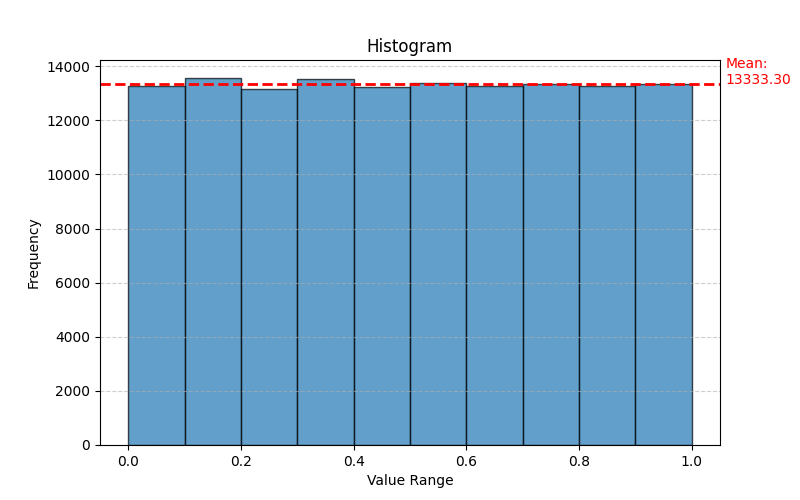
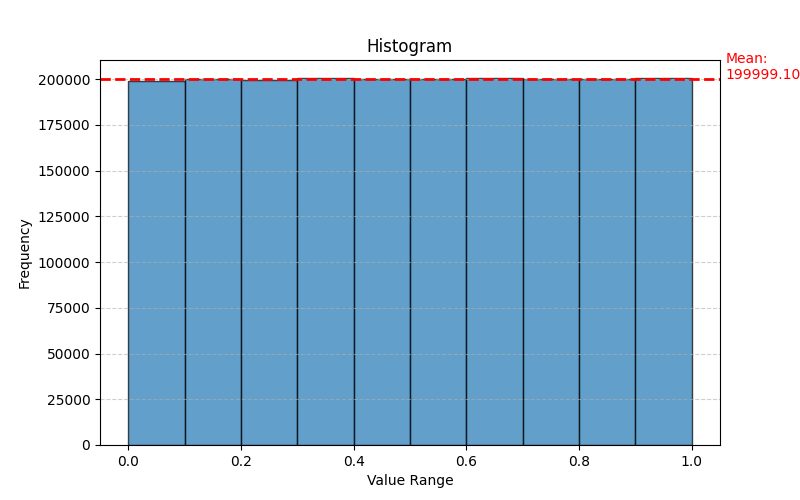
Adding period to the generator + correcting bug where 0 was consider as None

diff --git a/src/generator.py b/src/generator.py
@@ -10,22 +10,28 @@ class EGenerator:
         num_decimals (int): The number of decimal wanted to be used. Defaults = 10 MAX = 15.
     """
     
-    __MAX = 15  # Maximum allowed decimal places
+    __MAX_DECIMALS = 15  # Maximum allowed decimal places
+    __MIN = 1
 
-    def __init__(self, iterator: EIterator, num_decimals: int = 10):
+    def __init__(self, iterator: EIterator, num_decimals: int = 10, period: int = 1):
         """
         Initializes an EGenerator object.
 
         Args:
             iterator (EIterator): Iterator class to iterate over the decimal
             num_decimals (int): The number of decimal wanted to be used. Defaults = 10 MAX = 15.
+            period (int): The value of the shift execute at each generation except for the first one. Defaults = 1 MAX <= num_decimals
         """
-        if num_decimals > EGenerator.__MAX: 
-                    raise ValueError(f"num_decimals ({num_decimals}) exceeds the maximum allowed ({EGenerator.__MAX}).")
+        if num_decimals > EGenerator.__MAX_DECIMALS or num_decimals < 1: 
+                raise ValueError(f"num_decimals ({num_decimals}) exceeds the maximum allowed ({EGenerator.__MAX_DECIMALS}) or fails behind the minimum allowed ({EGenerator.__MIN})")
+            
+        if period > num_decimals or period < 1:
+                raise ValueError(f"period ({period}) exceeds the maximum allowed ({num_decimals}) or fails behind the minimum allowed ({EGenerator.__MIN})")
         
         self.iterator = iterator
         self.num_decimals = num_decimals
-        self.divider = 10 ** self.num_decimals
+        self.period = period
+        self.residual_digits = ""
     
     def generate(self) -> float | None:
         """
@@ -35,10 +41,14 @@ class EGenerator:
             float: generated number
         """
         try:
-            decimals = "".join(next(self.iterator) for _ in range(self.num_decimals))
-            return float(decimals) / self.divider
+            if len(self.residual_digits) > 0:
+                self.residual_digits = self.residual_digits[self.period:]
+                
+            self.residual_digits = self.residual_digits + "".join(next(self.iterator) for _ in range(self.num_decimals - len(self.residual_digits)))
+            return float("0."+self.residual_digits)
         
         except Exception as e:
+            print(e)
             return None
         
     def generate_all_value(self) -> list:
@@ -51,9 +61,10 @@ class EGenerator:
         number_list = []
         while True:
             number = self.generate()
-            if number:
+            if number != None:
                 number_list.append(number)
             else:
+                print(number)
                 print("All the decimal as been used:")
                 print(f"\t- Number of decimal after 0.: {self.num_decimals}")
                 print(f"\t- The length of the list is: {str(len(number_list))}")

diff --git a/src/main.py b/src/main.py
@@ -41,7 +41,7 @@ if __name__ == "__main__":
     
     file_path = PathFinder.get_complet_path("files/e2M.txt")
     iterator = EIterator(file_path = file_path)
-    generator = EGenerator(iterator = iterator, num_decimals = 15)
+    generator = EGenerator(iterator = iterator, num_decimals = 10, period = 1)
     data = generator.generate_all_value()
     
     global_test(data = data)
